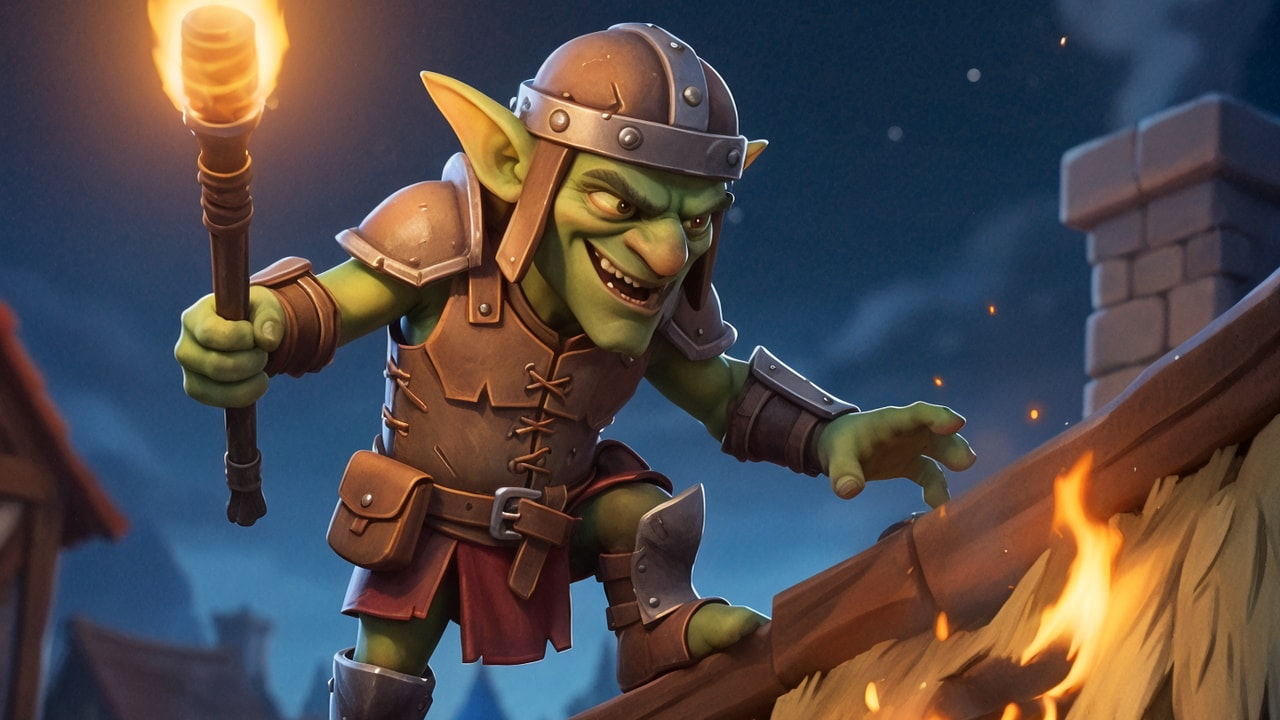
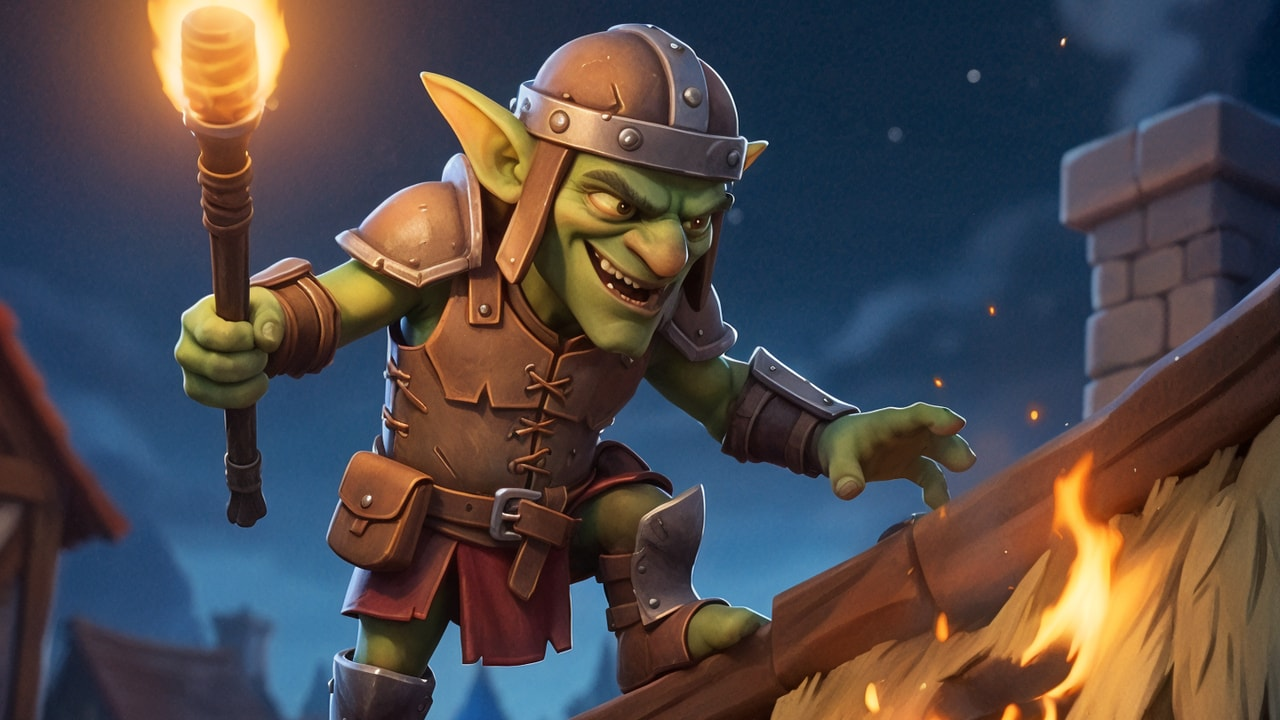
Реальные Best/Poor Quality картинки владельца + лого Nitroreel на "чистом" кадре
Заменил синтетически деградированную пару на настоящие рендеры из
папки "No Mush" (Best_quality.png / Poor_Quality.jpg) - тот же гоблин
с факелом, но уже не сгенерированный ffmpeg-деградацией, а исходники
владельца. Обе картинки обрезаны под одинаковую 16:9 рамку для
честного прямого сравнения. Лого Nitroreel добавлено оверлеем в
код (не вшито в файл) поверх "чистой" версии - плашка с бэкграундом,
как platform-бейдж в reel-card.

diff --git a/src/components/site/quality-comparison.tsx b/src/components/site/quality-comparison.tsx
@@ -31,6 +31,15 @@ export function QualityComparison({ t }: { t: Dictionary["quality"] }) {
                 sizes="(min-width: 640px) 40vw, 45vw"
                 className="object-cover"
               />
+              <span className="absolute left-3 top-3 rounded-full border border-white/15 bg-ink/70 px-2.5 py-1.5 backdrop-blur-sm">
+                <Image
+                  src="/brand/nitroreel-logo.png"
+                  alt="Nitroreel"
+                  width={100}
+                  height={34}
+                  className="h-4 w-auto"
+                />
+              </span>
             </div>
             <figcaption className="mt-3 flex items-center gap-2 text-xs font-semibold text-accent sm:text-sm">
               <span aria-hidden="true" className="h-1.5 w-1.5 shrink-0 rounded-full bg-accent" />
